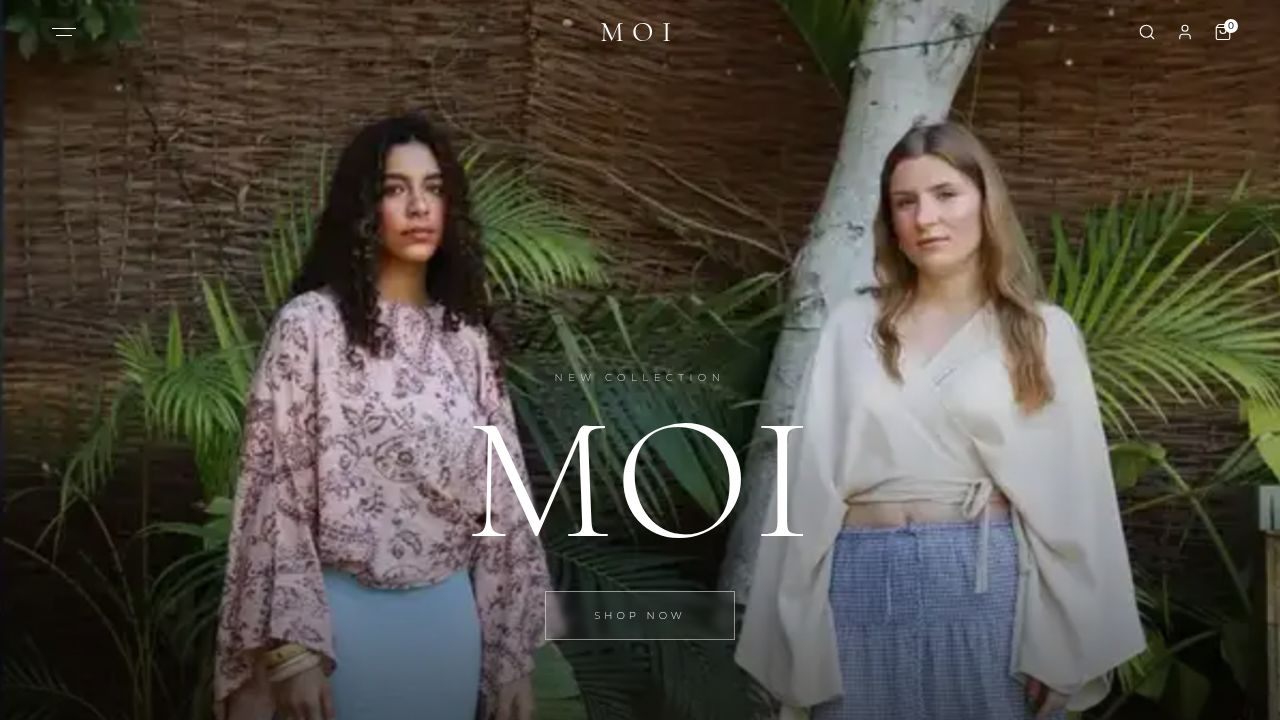
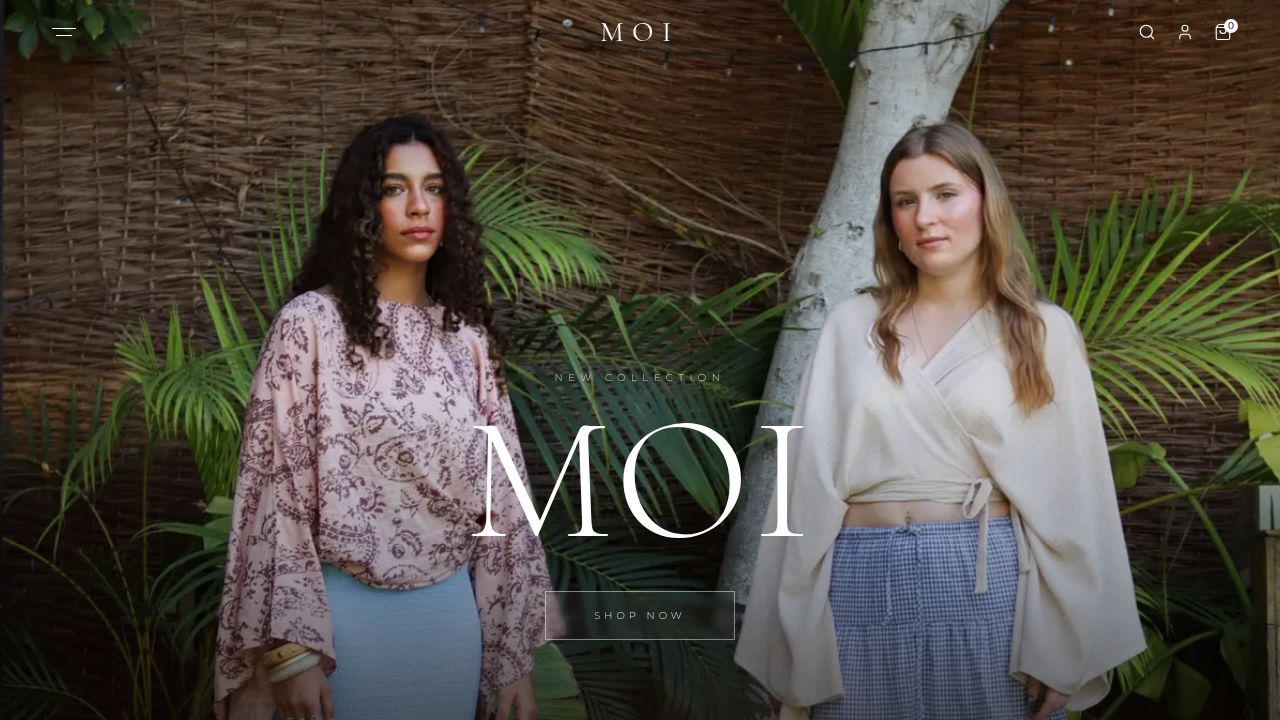
Improve image resolution for items in the shopping cart
Update the cart drawer component to correctly identify item colors from various selected options, ensuring accurate image display regardless of Shopify's naming conventions for color attributes.

Replit-Commit-Author: Agent
Replit-Commit-Session-Id: b6b93837-5079-48fa-b142-35e20bc6ff55
Replit-Commit-Checkpoint-Type: full_checkpoint
Replit-Commit-Event-Id: 8ef8d985-e112-467f-b0bd-0332b2d5e1c5
Replit-Commit-Screenshot-Url: https://storage.googleapis.com/screenshot-production-us-central1/3095ac8c-c529-4d3f-b18a-1650accab2e5/b6b93837-5079-48fa-b142-35e20bc6ff55/rywAys9
Replit-Helium-Checkpoint-Created: true

diff --git a/artifacts/moi/src/components/CartDrawer.tsx b/artifacts/moi/src/components/CartDrawer.tsx
@@ -40,12 +40,14 @@ function resolveLineImage(line: ShopifyCartLine, localItems: LocalCartItem[]): s
   const normTitle = normalizeTitle(rawTitle);
 
   // 1. Product + color scoped lookup (no cross-product collisions)
-  const colorOpt = line.merchandise.selectedOptions?.find(
-    (o) => o.name.toLowerCase() === "color"
-  );
-  if (colorOpt) {
-    const color = colorOpt.value.toLowerCase();
-    const hit = PRODUCT_COLOR_MAP[`${normTitle}::${color}`] ?? PRODUCT_COLOR_MAP[`${rawTitle.toLowerCase()}::${color}`];
+  // Try every non-size option as a potential color so we aren't coupled to a specific option name
+  // (Shopify stores may use "Color", "Colour", "Couleur", etc.)
+  const SIZE_OPTION_NAMES = new Set(["size", "titre", "taille", "tamanho", "größe"]);
+  for (const opt of (line.merchandise.selectedOptions ?? [])) {
+    if (SIZE_OPTION_NAMES.has(opt.name.toLowerCase())) continue;
+    const color = opt.value.toLowerCase();
+    const hit = PRODUCT_COLOR_MAP[`${normTitle}::${color}`]
+      ?? PRODUCT_COLOR_MAP[`${rawTitle.toLowerCase()}::${color}`];
     if (hit) return hit;
   }
 